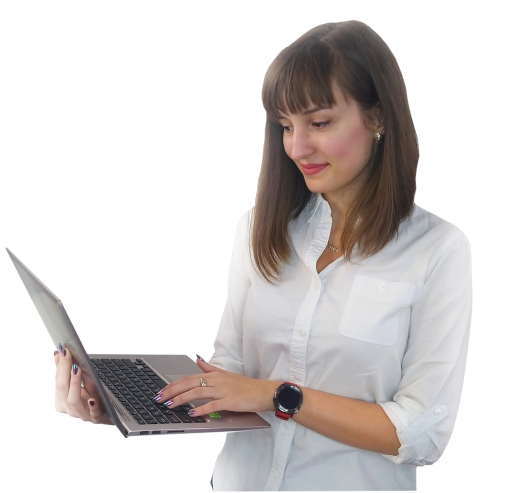
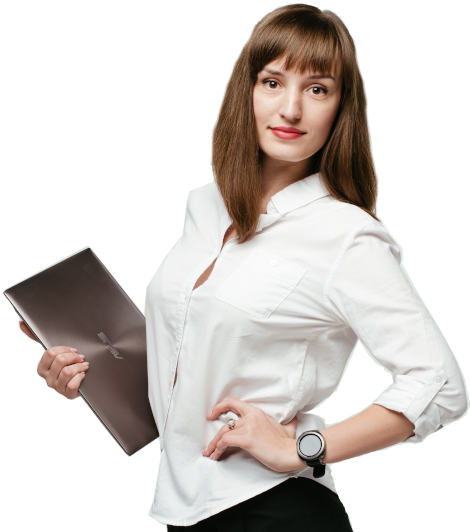
change photo

diff --git a/style.css b/style.css
@@ -6,7 +6,6 @@
 #main {
     margin: 0;
     max-width: 1300px;
-    background: #fccbce63 no-repeat center top;
     margin-left: auto;
     margin-right: auto;
 }
@@ -69,11 +68,12 @@ header .welcome p {
     margin-right: auto;
 }
 
-.info img {
-    width: 50%;
+.info img {   
     margin-left: auto;
     margin-right: auto;
 }
+
+
 
 #info {
     display: flex;
